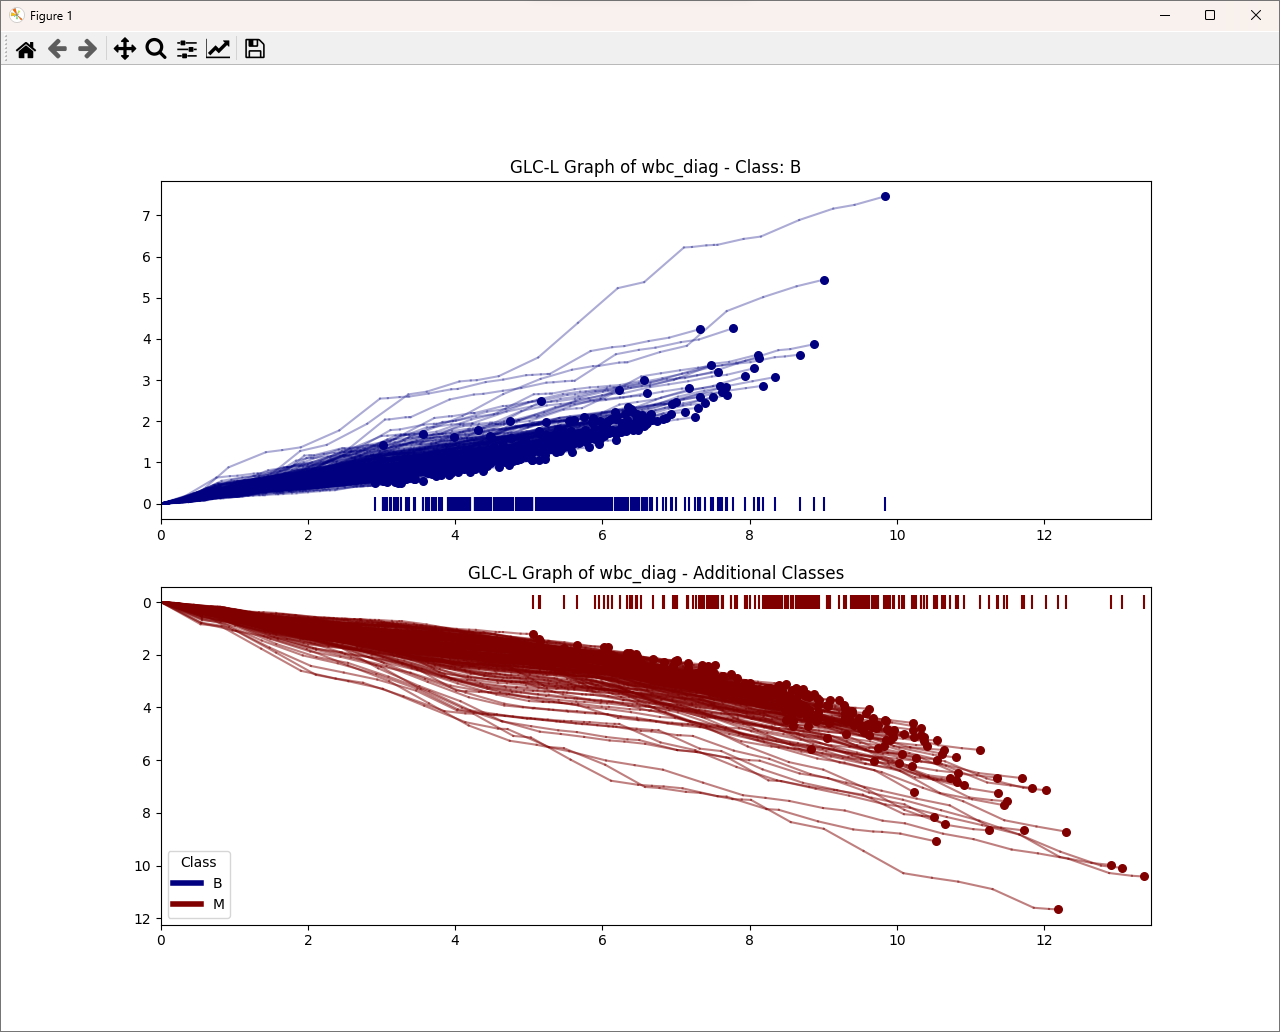
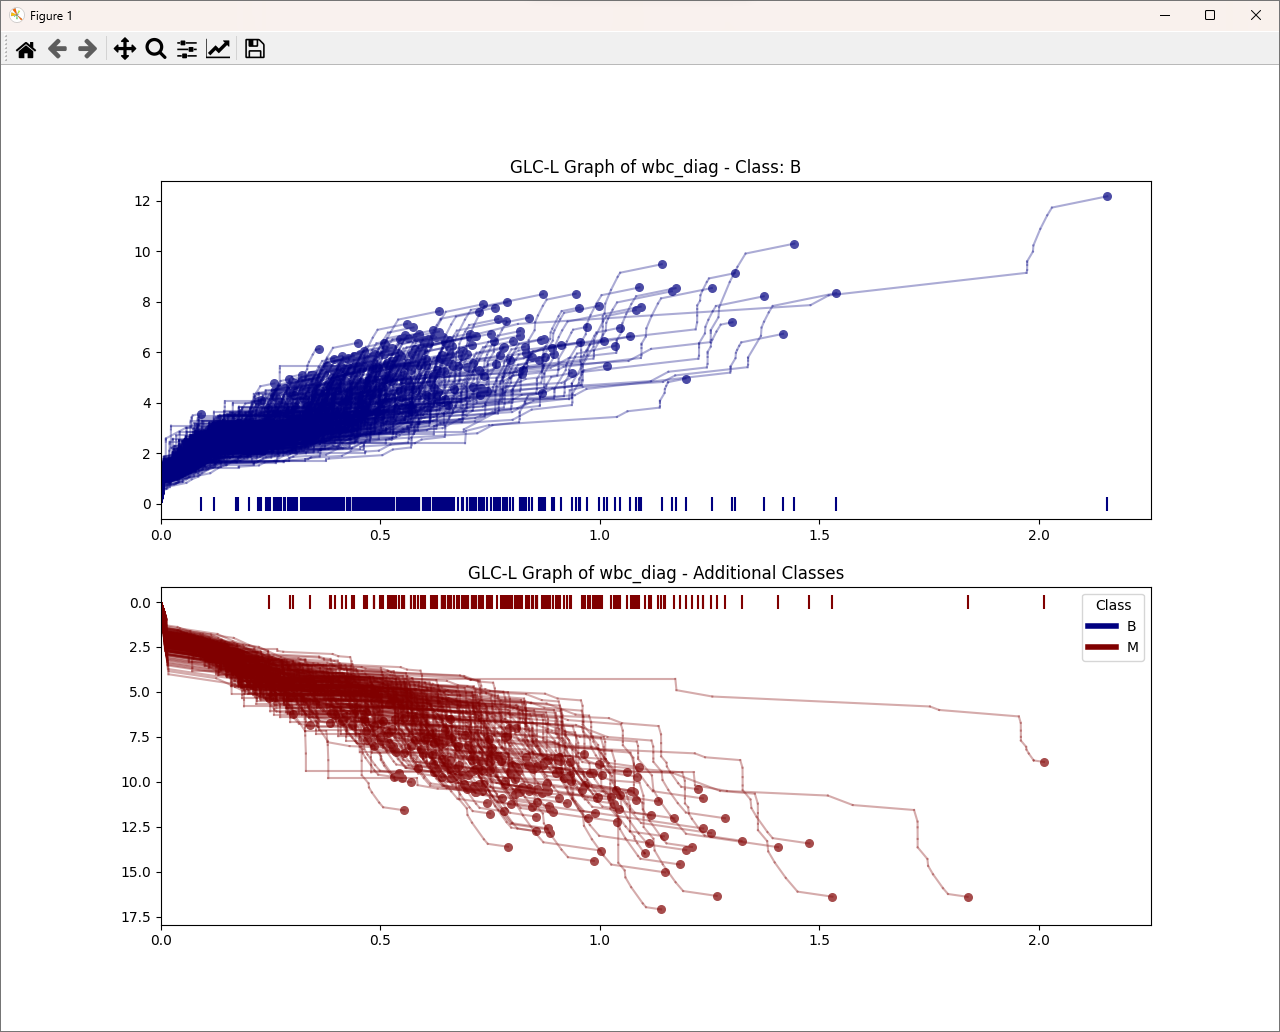
GLC-L algorithm fix, use LDA for coef

diff --git a/glc_line_plotter.py b/glc_line_plotter.py
@@ -4,6 +4,7 @@ import numpy as np
 from sklearn.preprocessing import MinMaxScaler
 import matplotlib.pyplot as plt
 from matplotlib.colors import to_rgb, to_hex
+from sklearn.discriminant_analysis import LinearDiscriminantAnalysis
 
 def lighten_color(color, amount=0.2):
     """
@@ -38,17 +39,29 @@ def normalize_and_clip(df, feature_columns):
     df[feature_columns] = np.clip(df[feature_columns], 0, 1)
     return df
 
-def plot_glyphs(df, dataset_name):
-    """
-    Plot the GLC-L type graph for the given dataset.
-    
-    Parameters:
-    - df: DataFrame containing the data.
-    - dataset_name: Name of the dataset to be used in the plot title.
-    """
+def compute_angles(coefficients):
+    c_max = np.max(coefficients)
+    normalized_coefficients = coefficients / c_max
+    transformed_coefficients = np.cos(np.arccos(normalized_coefficients))
+    angles = np.arccos(np.abs(transformed_coefficients))
+    return angles
+
+def get_lda_coefficients(df, feature_columns, label_column):
+    X = df[feature_columns].values
+    y = df[label_column].values
+    lda = LinearDiscriminantAnalysis()
+    lda.fit(X, y)
+    return lda.coef_[0]
+
+def plot_glyphs(df, dataset_name, coefficients=None):
     feature_columns = [col for col in df.columns if col != 'class']
     label_column = 'class'
     df = normalize_and_clip(df, feature_columns)
+    
+    if coefficients is None:
+        coefficients = np.ones(len(feature_columns))
+        
+    angles = compute_angles(coefficients)
     
     unique_labels = df[label_column].unique()
     colors = plt.cm.jet(np.linspace(0, 1, len(unique_labels)))
@@ -59,9 +72,9 @@ def plot_glyphs(df, dataset_name):
     max_x_value = 0
     for index, row in df.iterrows():
         x_prev = 0
-        for feature in feature_columns:
-            a_i = row[feature]
-            theta_i = a_i
+        for i, feature in enumerate(feature_columns):
+            a_i = row[feature]  # Length of line segment
+            theta_i = angles[i]  # Angle based on coefficient
             x_i = x_prev + a_i * np.cos(theta_i)
             x_prev = x_i
         max_x_value = max(max_x_value, x_i)
@@ -70,9 +83,9 @@ def plot_glyphs(df, dataset_name):
     first_class = unique_labels[0]
     for index, row in df[df[label_column] == first_class].iterrows():
         x_prev, y_prev = 0, 0
-        for feature in feature_columns:
+        for i, feature in enumerate(feature_columns):  # Added 'i' to enumerate
             a_i = row[feature]
-            theta_i = a_i
+            theta_i = angles[i]
             x_i = x_prev + a_i * np.cos(theta_i)
             y_i = y_prev + a_i * np.sin(theta_i)
             plt.plot([x_prev, x_i], [y_prev, y_i], color=label_to_color[row[label_column]], alpha=0.33)
@@ -87,9 +100,9 @@ def plot_glyphs(df, dataset_name):
     plt.subplot(2, 1, 2)
     for index, row in df[df[label_column] != first_class].iterrows():
         x_prev, y_prev = 0, 0
-        for feature in feature_columns:
+        for i, feature in enumerate(feature_columns):  # Added 'i' to enumerate
             a_i = row[feature]
-            theta_i = a_i
+            theta_i = angles[i]
             x_i = x_prev + a_i * np.cos(theta_i)
             y_i = y_prev + a_i * np.sin(theta_i)
             plt.plot([x_prev, x_i], [y_prev, y_i], color=label_to_color[row[label_column]], alpha=0.33)
@@ -115,9 +128,21 @@ def plot_glyphs(df, dataset_name):
 if __name__ == "__main__":
     parser = argparse.ArgumentParser(description='Plot GLC-L Type Graph.')
     parser.add_argument('--file_path', type=str, help='Path to the dataset CSV file.')
+    parser.add_argument('--coefficients', type=str, help='Comma-separated coefficients for the linear function. Should match the number of features.')
     args = parser.parse_args()
     
     df = pd.read_csv(args.file_path)
     dataset_name = args.file_path.split('/')[-1].split('.')[0]
     
-    plot_glyphs(df, dataset_name)
+    feature_columns = [col for col in df.columns if col != 'class']
+    label_column = 'class'
+    
+    if args.coefficients:
+        coefficients = np.array([float(x) for x in args.coefficients.split(',')])
+        if len(coefficients) != len(feature_columns):
+            print("Error: The number of coefficients must match the number of features.")
+            exit(1)
+    else:
+        coefficients = get_lda_coefficients(df, feature_columns, label_column)
+    
+    plot_glyphs(df, dataset_name, coefficients)

diff --git a/tree_glyph_plotter.py b/tree_glyph_plotter.py
@@ -118,7 +118,7 @@ def draw_tree_colored_stretched(ax, x, y, z, trunk_length, branches, color, stre
         angle_scaled = angle * 45
         dx = length * math.sin(math.radians(angle_scaled))
         dy = length * math.cos(math.radians(angle_scaled))
-        ax.plot([x, x + dx], [y, y + dy], [z_current, z_current], c=color)
+        ax.plot([x, x + dx], [y, y + dy], [z_current, z_current], c=color, alpha=0.33)
 
 def plot_trees(ax, data, labels, stretch_factor):
     unique_labels = labels.unique()
